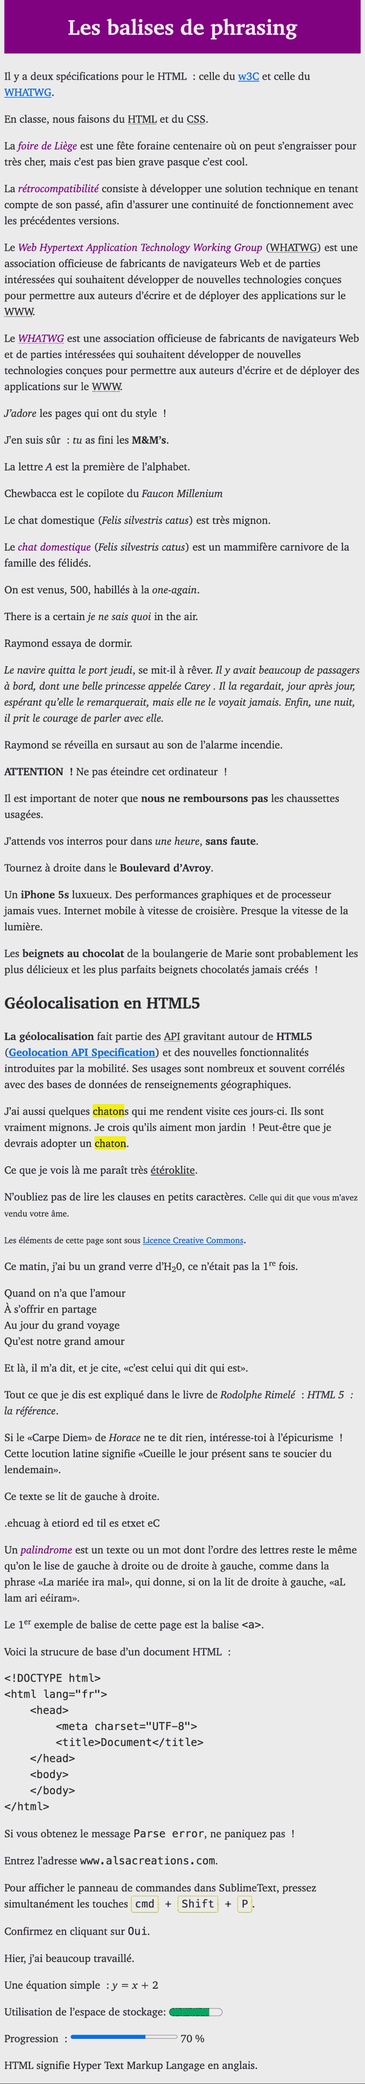
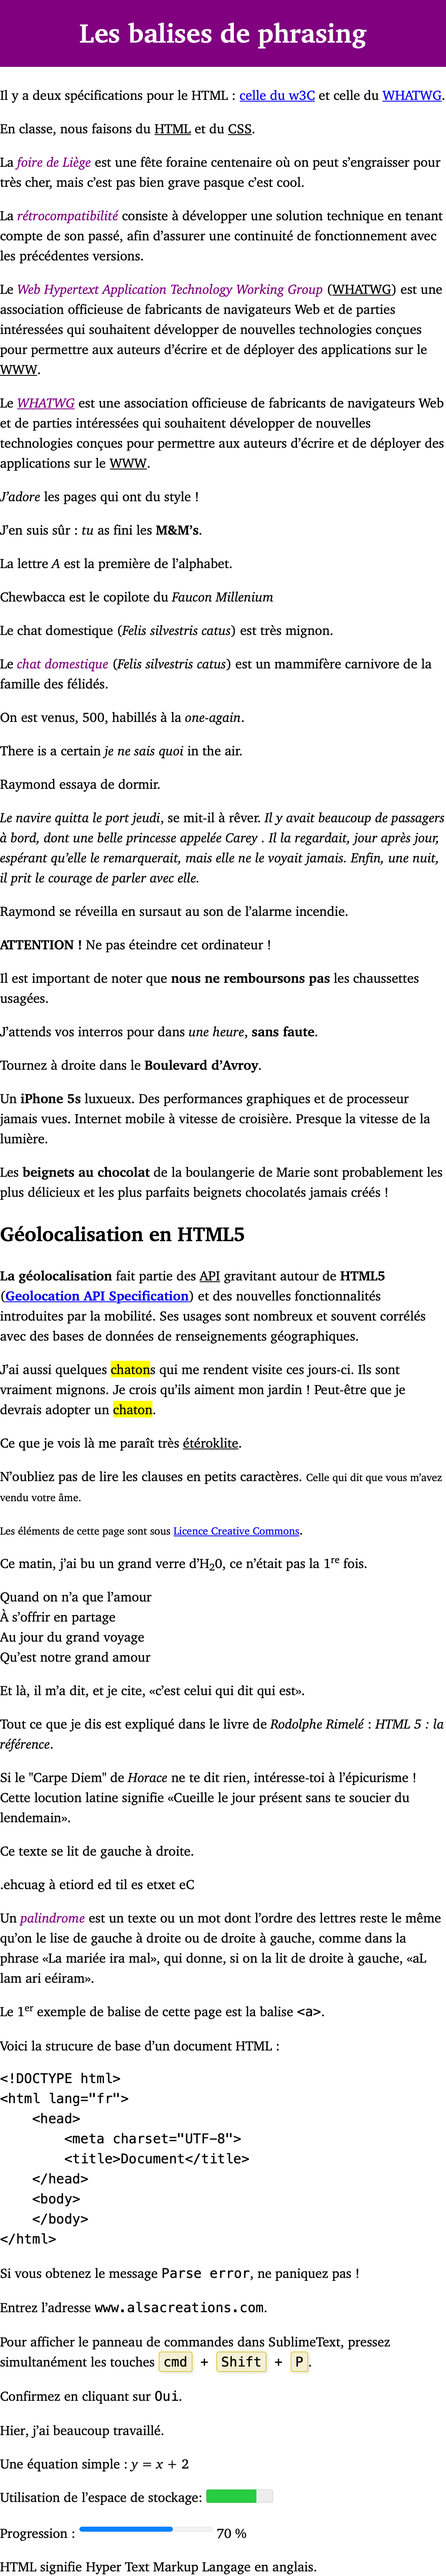
Mise à jour balise cite

diff --git a/index.html b/index.html
@@ -35,11 +35,11 @@
         Penser à utiliser les attributs href pour l’adresse du site ciblé par le lien,
         hreflang pour la langue du site ciblé par le lien et title pour améliorer la prédictibilité du lien -->
     <p>
-        Il y a deux spécifications pour le HTML&nbsp;: celle du <a
+        Il y a deux spécifications pour le HTML&nbsp;: <a
             href="http://dev.w3.org/html5/html-author/"
             hreflang="en"
             title="consulter la spécification officielle du langage HTML5 sur le site du World Wide Web Consortium"
-        >w3C</a> et celle du <a
+        >celle du w3C</a> et celle du <a
             href="https://html.spec.whatwg.org/multipage/"
             hreflang="en"
             title="consulter la spécification du langage HTML5 sur le site du Web Hypertext Application Technology Working Group"
@@ -217,13 +217,13 @@
         Et là, il m’a dit, et je cite, <q>c’est celui qui dit qui est</q>.
     </p>
 
-    <!-- cite représente la source d’une citation. Cela peut être le nom d’une œuvre (livre, chanson, pièce de théâtre, opéra, film, émission, jeu, peinture, expo, autre page web, etc.), mais cla peut être aussi le nom de l’auteur (ATTENTION, corriger livre p.144 et référence p.36) -->
+    <!-- cite représente la source d’une citation. C'est-à-dire le nom de l’œuvre dont elle est tirée (livre, chanson, pièce de théâtre, opéra, film, émission, jeu, peinture, expo, autre page web, etc.) -->
     <p>
-        Tout ce que je dis est expliqué dans le livre de <cite>Rodolphe Rimelé</cite>&nbsp;: <cite>HTML 5&nbsp;: la
+        Tout ce que je dis est expliqué dans le livre de <span class="author">Rodolphe Rimelé</span>&nbsp;: <cite>HTML 5&nbsp;: la
             référence</cite>.
     </p>
     <p>
-        Si le <q lang="la">Carpe Diem</q> de <cite>Horace</cite> ne te dit rien, intéresse-toi à l’épicurisme&nbsp;!
+        Si le <q lang="la">Carpe Diem</q> de <span class="author">Horace</span> ne te dit rien, intéresse-toi à l’épicurisme&nbsp;!
         Cette locution latine signifie <q lang="fr">Cueille le jour présent sans te soucier du lendemain</q>.
     </p>
 

diff --git a/css/styles.css b/css/styles.css
@@ -381,3 +381,7 @@ kbd kbd {
     padding: 0.1em 0.3em;
     box-shadow: 2px 2px 4px rgba(0, 0, 0, 0.1);
 }
+
+.author {
+    font-style: italic;
+}
